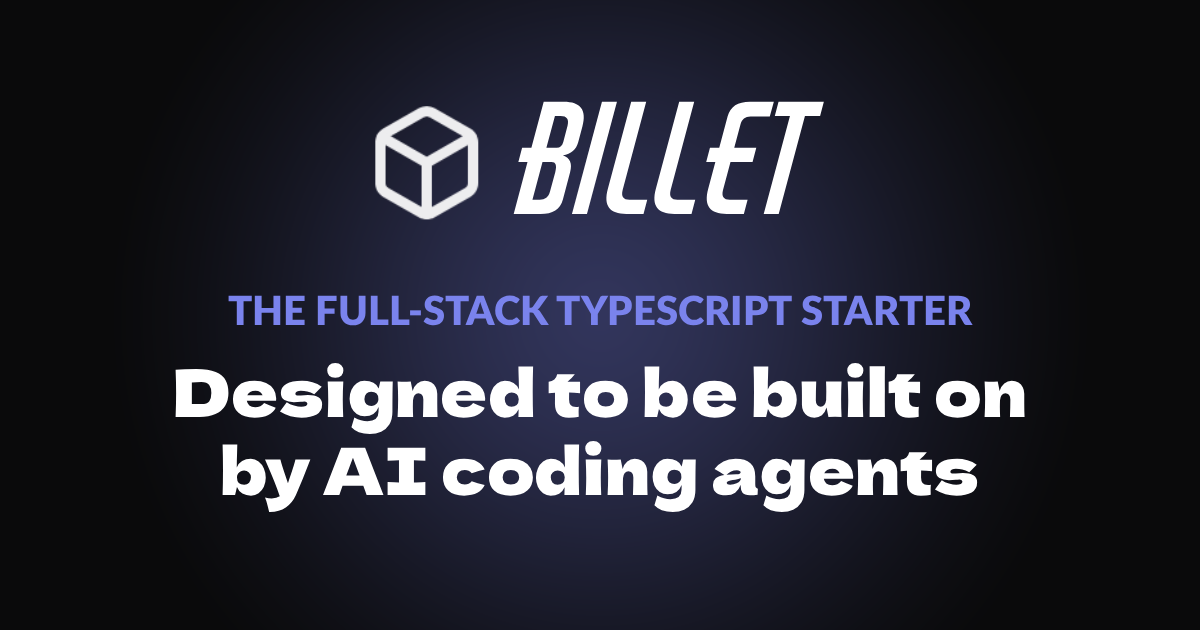
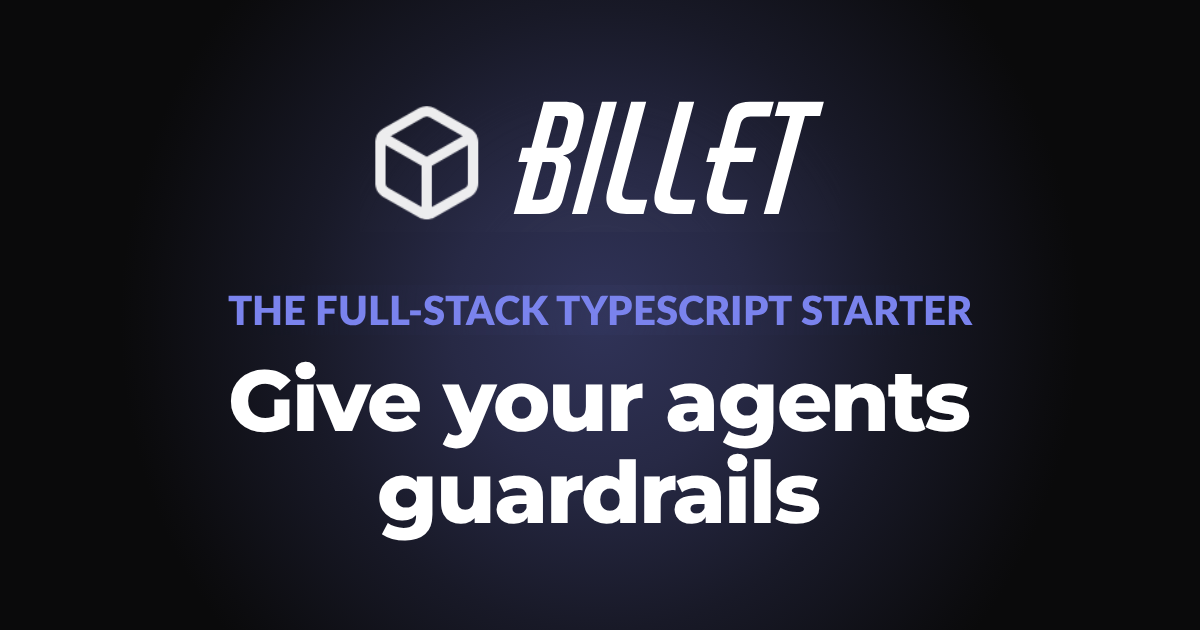
Reword the hero around guardrails and propagate it (#55)

Changed region(s): [[0.1233, 0.573, 0.8633, 0.8746]]

diff --git a/src/server/services/seo.ts b/src/server/services/seo.ts
@@ -5,7 +5,7 @@
 export const SITE_URL = "https://billet.alexprice.dev";
 export const SITE_NAME = "Billet";
 export const SITE_DESCRIPTION =
-  "Full-stack TypeScript starter — designed to be built on by AI coding agents";
+  "Guardrails for your AI coding agents — a full-stack TypeScript starter on Bun";
 
 // Public, indexable routes included in the sitemap. Private or noindex routes
 // (/login, /admin), API endpoints, and auth callbacks are intentionally omitted.
@@ -56,9 +56,9 @@ const ROBOTS_DISALLOW = [
 // declares downstream-use consent explicitly for crawlers that honour it.
 const CONTENT_SIGNAL = "Content-Signal: search=yes, ai-input=yes, ai-train=yes";
 
-// Builds the /robots.txt body. Billet is designed to be built on by AI coding
-// agents, so the posture is deliberately open: search engines and the major AI
-// crawlers are all allowed, with only private surfaces disallowed.
+// Builds the /robots.txt body. Billet is built for AI coding agents, so the
+// posture is deliberately open: search engines and the major AI crawlers are
+// all allowed, with only private surfaces disallowed.
 export const buildRobotsTxt = (): string => {
   const group = (agents: readonly string[]): string =>
     [
@@ -69,8 +69,8 @@ export const buildRobotsTxt = (): string => {
     ].join("\n");
 
   return [
-    "# Billet is designed to be built on by AI coding agents, so search engines",
-    "# and AI crawlers are welcome. Only private surfaces are disallowed.",
+    "# Billet is built for AI coding agents, so search engines and AI crawlers",
+    "# are welcome. Only private surfaces are disallowed.",
     "",
     group(["*"]),
     "",

diff --git a/src/server/templates/home.tsx b/src/server/templates/home.tsx
@@ -19,7 +19,7 @@ interface HomeProps {
 export const Home = ({ user, csrfToken, message }: HomeProps) => (
   <Layout
     title="Billet — The AI-native TypeScript starter"
-    description="Put your AI coding agents on rails: server-rendered JSX, PostgreSQL via Bun, auth, security and 300+ tests in a single deploy target."
+    description="Give your AI coding agents guardrails: server-rendered JSX, PostgreSQL via Bun, auth, security and 600+ tests in a single deploy target."
     canonicalPath="/"
     name="home"
     user={user}
@@ -62,9 +62,9 @@ export const Home = ({ user, csrfToken, message }: HomeProps) => (
         </span>
       </a>
       <p className="hero-tag">Full-stack TypeScript starter</p>
-      <h1>Put your agents on&nbsp;rails</h1>
+      <h1>Give your agents guardrails</h1>
       <p className="hero-sub">
-        Auth, security, migrations and 300+ tests, already laid down.
+        Auth, security, migrations and 600+ tests, already bolted down.
         Server-rendered JSX on Bun and PostgreSQL — one codebase, one test
         runner, one deploy target. Your agent starts on your product, not on the
         parts every app needs.
@@ -183,7 +183,7 @@ export const Home = ({ user, csrfToken, message }: HomeProps) => (
         <div className="feature-card">
           <h3>Testing</h3>
           <p>
-            300+ tests, deterministic templates, real database testing, no
+            600+ tests, deterministic templates, real database testing, no
             browser simulation
           </p>
         </div>

diff --git a/README.md b/README.md
@@ -5,7 +5,7 @@
 <h1 align="center">Billet</h1>
 
 <p align="center">
-  <b>Full-stack TypeScript starter designed to be built on by AI coding agents</b>
+  <b>Give your AI coding agents guardrails</b>
   <br />
   Server-rendered JSX, light-touch JS, custom CSS — one codebase, one deploy target.<br />
   Deterministic templates with strong types that AI agents can reason about and test with confidence.
@@ -19,7 +19,7 @@
   <a href="LICENSE"><img src="https://img.shields.io/badge/License-MIT-green?style=for-the-badge" alt="License" /></a>
 </p>
 
-> **TLDR:** Full-stack TypeScript starter built for AI coding agents. Server-rendered JSX (not React), custom CSS, PostgreSQL via Bun — one process, one test runner, one deploy target. Ships with auth (magic-link or email+password, your pick), CSRF protection, rate limiting, auto-migrations, and 30+ test files. The architecture is deliberately simple (services → controllers → templates) so AI agents get fast, unambiguous feedback from strict types, zero-warning linting, and a test suite that runs in seconds. Deploy anywhere you can run `bun run start`.
+> **TLDR:** Full-stack TypeScript starter built for AI coding agents. Server-rendered JSX (not React), custom CSS, PostgreSQL via Bun — one process, one test runner, one deploy target. Ships with auth (magic-link or email+password, your pick), CSRF protection, rate limiting, auto-migrations, and 600+ tests. The architecture is deliberately simple (services → controllers → templates) so AI agents get fast, unambiguous feedback from strict types, zero-warning linting, and a test suite that runs in seconds. Deploy anywhere you can run `bun run start`.
 >
 > — *Claude Opus 4.6*
 
@@ -163,7 +163,7 @@ Every layer catches a different class of error before a human has to:
 | Test suite | Behavioural regressions, broken templates, bad responses |
 
 
-This is the [backpressure](#capture-your-backpressure) that keeps agents on the rails.
+This is the [backpressure](#capture-your-backpressure) that keeps agents inside the guardrails.
 
 ---
 
